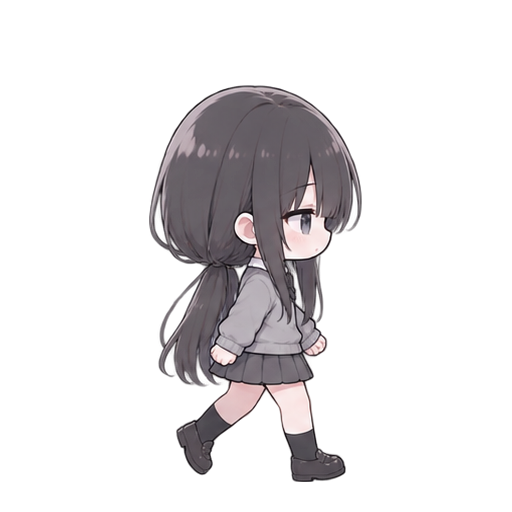
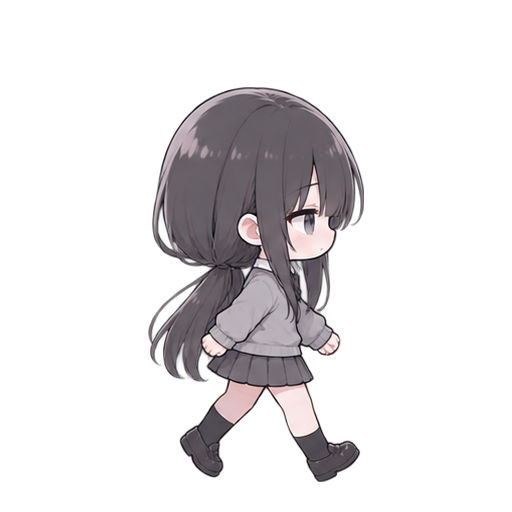
fix: alternate leading legs in walk cycle

diff --git a/src/style.css b/src/style.css
@@ -12,7 +12,7 @@ button:focus-visible, input:focus-visible { outline: 2px solid #8195d4; outline-
 /* Elise and the cat share one stage so the cat stays beside her feet while moving. */
 .pet-group { position: absolute; bottom: 2px; width: 320px; height: 370px; transform-origin: 50% 100%; }
 .pet-group.facing-left { transform: scaleX(-1); }
-.elise-shell { position: absolute; left: 0; bottom: -12px; width: 290px; height: 360px; }
+.elise-shell { position: absolute; left: 0; bottom: -20px; width: 290px; height: 360px; }
 .pet-group.pose-sit .elise-shell { width: 290px; height: 350px; }
 .pet-group.pose-sleep { bottom: 10px; width: 355px; height: 220px; }
 .pet-group.pose-sleep .elise-shell { bottom: 0; width: 355px; height: 220px; }

diff --git a/src/App.tsx b/src/App.tsx
@@ -18,9 +18,9 @@ const catImages: Record<CatPose, string> = {
   stretch: '/assets/cat/poses/stretch.png',
 };
 const eliseWalkImages = [
-  // Contact -> recoil -> passing -> high point -> contact.
-  '/assets/elise/poses/walk_side_02.png',
+  // Near-leg contact -> near-leg passing -> far-leg contact -> far-leg passing.
   '/assets/elise/poses/walk_side_01.png',
+  '/assets/elise/poses/walk_side_02.png',
   '/assets/elise/poses/walk_side_03.png',
   '/assets/elise/poses/walk_side_04.png',
 ];
